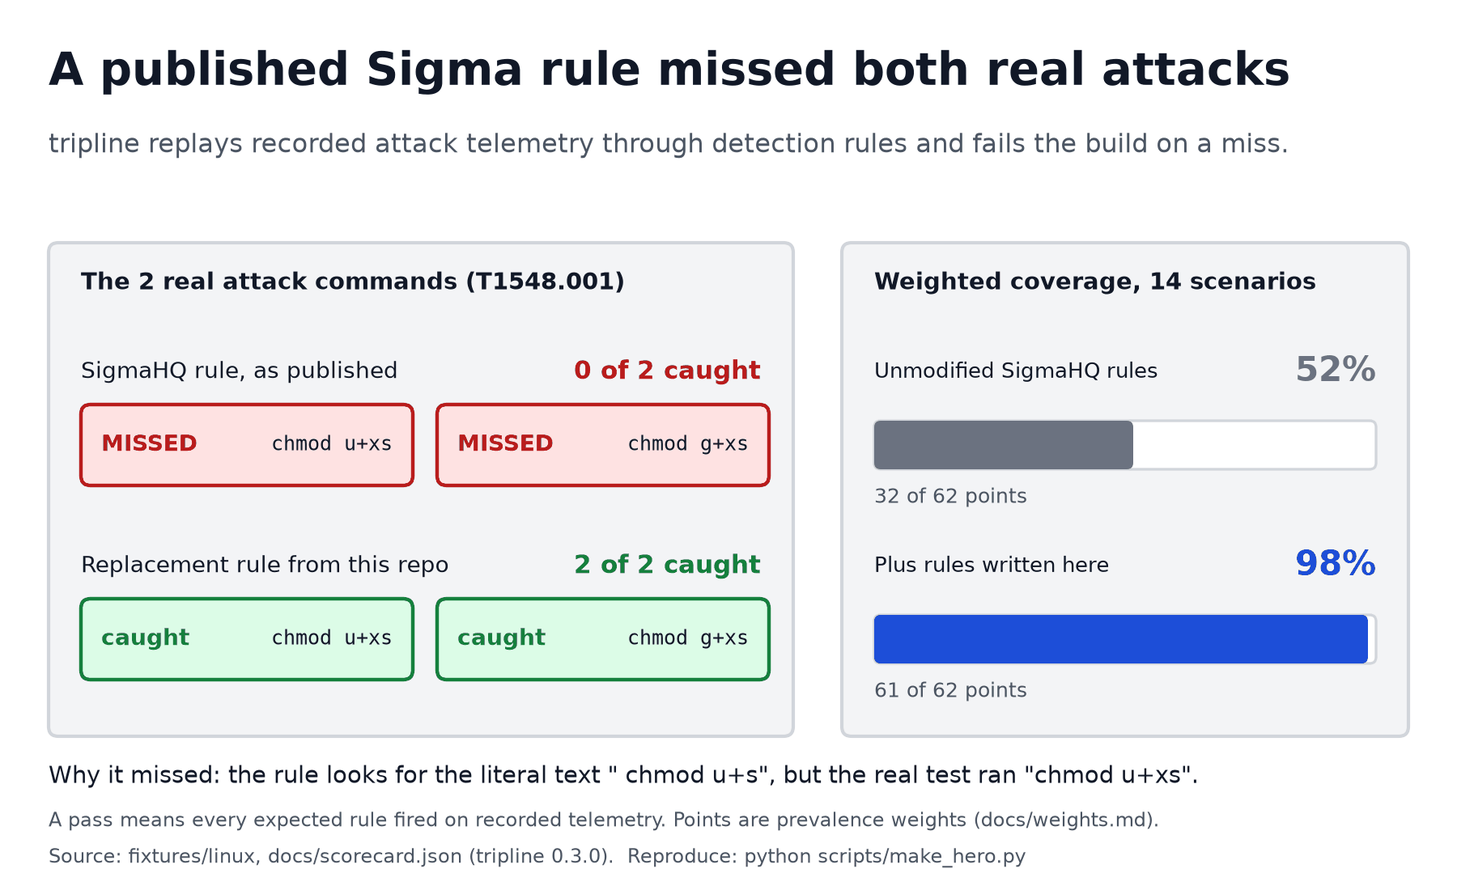
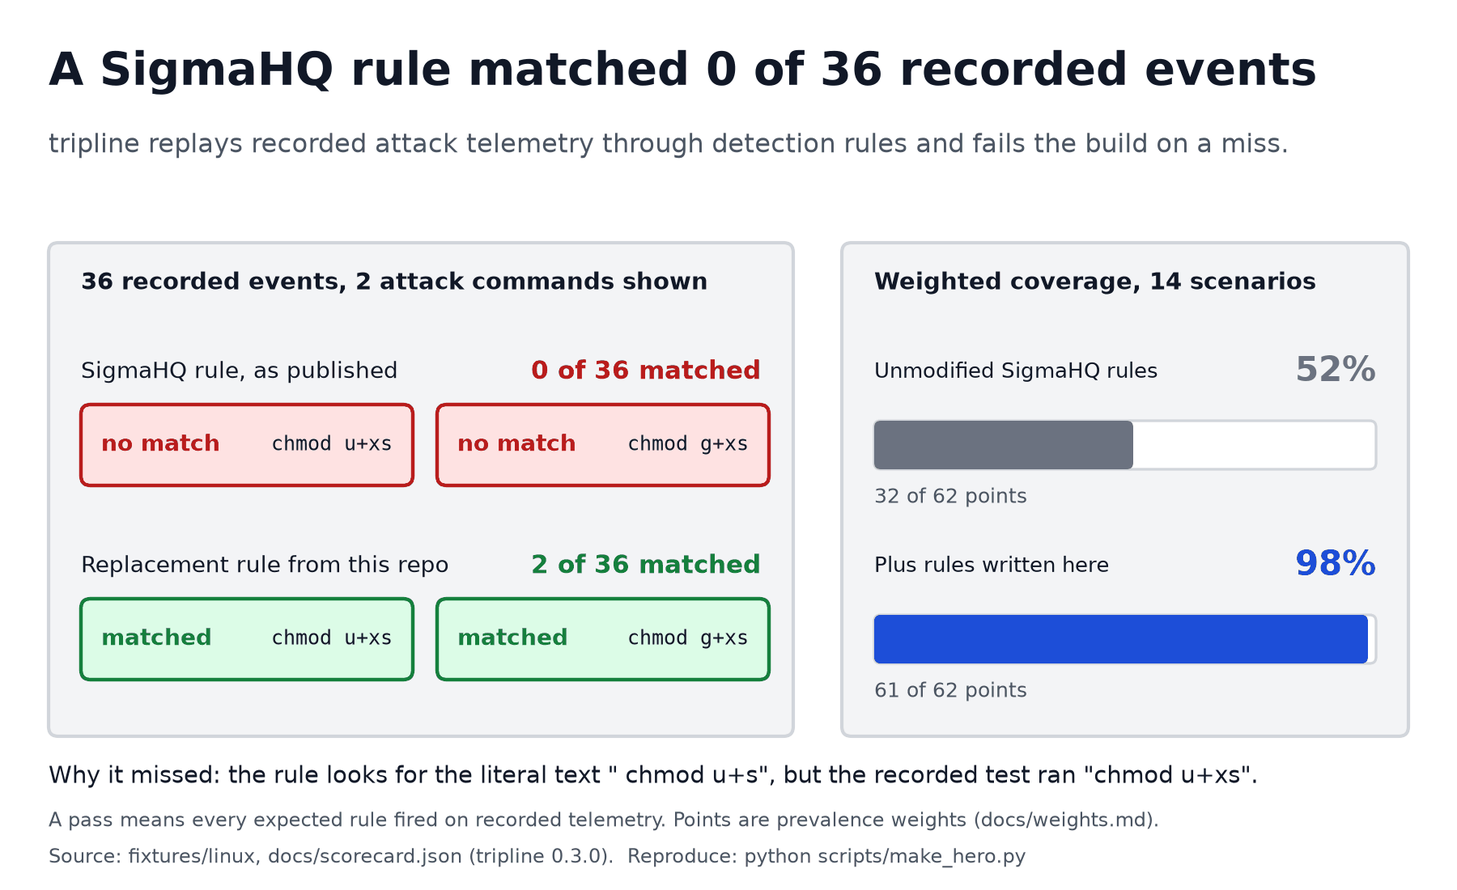
Rewrite README intro and setuid case study; verify against current SigmaHQ
Check the vendored Setuid and Setgid rule against SigmaHQ master and release r2026-07-01 (detection unchanged since 2022). Report the result as 0 of 36 recorded execve events instead of 0 of 2, say what the rule could ever match, and keep generated variants apart from recorded telemetry. Note that the 0/108 comparison column in the sweep is not a fair comparison. Add an evidence chart script.

diff --git a/scripts/make_evidence.py b/scripts/make_evidence.py
@@ -1,0 +1,88 @@
+"""Render docs/img/evidence.png: recorded telemetry kept apart from generated variants.
+
+Numbers are computed here from the committed fixture and rules, not typed in.
+Run from the repo root:  python scripts/make_evidence.py   (needs matplotlib and the dev install)
+"""
+
+from __future__ import annotations
+
+from pathlib import Path
+
+import matplotlib
+
+matplotlib.use("Agg")
+import matplotlib.pyplot as plt
+
+from tripline.engine.rules import evaluate, load_rules
+from tripline.replay import load_fixture_events
+from tripline.robustness import run_sweep
+from tripline.scenarios import load_scenarios
+
+ROOT = Path(__file__).resolve().parent.parent
+STOCK = "c21c4eaa-ba2e-419a-92b2-8371703cbe21"
+MINE = "7f3c2b1a-6d4e-4a9b-9c8d-1e2f3a4b5c6d"
+SID = "t1548-001-setuid-setgid"
+
+
+def main() -> None:
+    scenarios = load_scenarios(ROOT / "scenarios")
+    rules = load_rules(ROOT / "rules" / "sigma")
+    scen = {s.id: s for s in scenarios}[SID]
+    events = load_fixture_events(scen, ROOT)
+    execve = [e for e in events if e.get("type") == "EXECVE"]
+    attack = [e for e in execve if e.get("exe") == "/usr/bin/chmod"]
+    rec = {}
+    for name, rid in (("replacement rule", MINE),):
+        rule = rules.by_id(rid)
+        rec[name] = sum(1 for e in attack if evaluate(rule, e) is True)
+    sweep = run_sweep([scen], rules, ROOT)
+    sc = sweep.scenarios[0]
+    gen_mine = next(r for r in sc.rules if r.rule_id == MINE)
+
+    fig, axes = plt.subplots(1, 2, figsize=(10, 4.2), gridspec_kw={"width_ratios": [2, 3]})
+    ax = axes[0]
+    ax.bar(list(rec), list(rec.values()), color=["#15803d"], width=0.4)
+    ax.set_ylim(0, len(attack) * 1.2)
+    ax.set_yticks(range(len(attack) + 1))
+    ax.axhline(len(attack), color="#9ca3af", lw=0.8, ls="--")
+    ax.set_ylabel("chmod attack events matched")
+    ax.set_title(
+        f"Recorded: {len(attack)} chmod events\n(of {len(execve)} execve, {len(events)} total)"
+    )
+    for i, v in enumerate(rec.values()):
+        ax.text(i, v + 0.05, f"{v} of {len(attack)}", ha="center", fontweight="bold")
+    ax = axes[1]
+    ax.bar(["replacement rule"], [gen_mine.cmdline_caught], color="#1d4ed8", width=0.4)
+    ax.axhline(gen_mine.cmdline_variants, color="#9ca3af", lw=0.8, ls="--")
+    ax.set_ylim(0, gen_mine.cmdline_variants * 1.15)
+    ax.set_ylabel("variants caught")
+    ax.set_title(
+        f"Generated: {gen_mine.cmdline_variants} spellings of the same command\n(not recorded)"
+    )
+    ax.text(
+        0,
+        gen_mine.cmdline_caught + 1.5,
+        f"{gen_mine.cmdline_caught} of {gen_mine.cmdline_variants}",
+        ha="center",
+        fontweight="bold",
+    )
+    for a in axes:
+        a.spines[["top", "right"]].set_visible(False)
+    fig.text(
+        0.01,
+        0.01,
+        "Note: generated variants are bare chmod events without 'chown root', so the SigmaHQ rule "
+        "(which needs both in one command line) cannot match them; that is not a fair comparison.\n"
+        "Reproduce: python scripts/make_evidence.py",
+        fontsize=7.5,
+        color="#4b5563",
+        va="bottom",
+    )
+    fig.tight_layout(rect=(0, 0.08, 1, 1))
+    out = ROOT / "docs" / "img" / "evidence.png"
+    fig.savefig(out, dpi=170, facecolor="white")
+    print(f"wrote {out}", rec, gen_mine.cmdline_caught, gen_mine.cmdline_variants)
+
+
+if __name__ == "__main__":
+    main()

diff --git a/scripts/make_hero.py b/scripts/make_hero.py
@@ -43,6 +43,9 @@ def measure() -> dict:
     cmds = [normalize(e)["CommandLine"] for e in attacks]
     stock = [bool(evaluate(by_id[STOCK], e)) for e in attacks]
     mine = [bool(evaluate(by_id[MINE], e)) for e in attacks]
+    execve = [e for e in events if e.get("type") == "EXECVE"]
+    stock_n = sum(1 for e in execve if evaluate(by_id[STOCK], e) is True)
+    mine_n = sum(1 for e in execve if evaluate(by_id[MINE], e) is True)
     card = json.loads((ROOT / "docs" / "scorecard.json").read_text(encoding="utf-8"))
     total = sum(s["weight"] for s in card["scenarios"])
     passed = sum(s["weight"] for s in card["scenarios"] if s["status"] == "passed")
@@ -53,6 +56,8 @@ def measure() -> dict:
     )
     return dict(
         cmds=cmds,
+        n_exec=len(execve),
+        counts=(stock_n, mine_n),
         stock=stock,
         mine=mine,
         total=total,
@@ -80,7 +85,7 @@ def main() -> None:
     ax.text(
         6,
         101,
-        "A published Sigma rule missed both real attacks",
+        "A SigmaHQ rule matched 0 of 36 recorded events",
         fontsize=20,
         fontweight="bold",
         color=TEXT,
@@ -100,24 +105,24 @@ def main() -> None:
     ax.text(
         10,
         75,
-        "The 2 real attack commands (T1548.001)",
+        f"{m['n_exec']} recorded events, 2 attack commands shown",
         fontsize=10.5,
         color=TEXT,
         fontweight="bold",
         va="center",
     )
     rows = [
-        ("SigmaHQ rule, as published", m["stock"]),
-        ("Replacement rule from this repo", m["mine"]),
+        ("SigmaHQ rule, as published", m["stock"], m["counts"][0]),
+        ("Replacement rule from this repo", m["mine"], m["counts"][1]),
     ]
-    for i, (name, res) in enumerate(rows):
+    for i, (name, res, n_hit) in enumerate(rows):
         y = 64 - i * 24
         ax.text(10, y, name, fontsize=10, color=TEXT, va="center")
-        ok_all = all(res)
+        ok_all = n_hit > 0
         ax.text(
             94,
             y,
-            f"{sum(res)} of {len(res)} caught",
+            f"{n_hit} of {m['n_exec']} matched",
             fontsize=11,
             fontweight="bold",
             color=GOOD if ok_all else BAD,
@@ -130,7 +135,7 @@ def main() -> None:
             ax.text(
                 x + 2.5,
                 y - 9,
-                "caught" if ok else "MISSED",
+                "matched" if ok else "no match",
                 fontsize=10,
                 color=GOOD if ok else BAD,
                 fontweight="bold",
@@ -184,7 +189,7 @@ def main() -> None:
     ax.text(
         6,
         14,
-        'Why it missed: the rule looks for the literal text " chmod u+s", but the real test ran '
+        'Why it missed: the rule looks for the literal text " chmod u+s", but the recorded test ran '
         '"chmod u+xs".',
         fontsize=10.5,
         color=TEXT,

diff --git a/tripline/robustness.py b/tripline/robustness.py
@@ -674,7 +674,12 @@ def render_markdown(report: RobustnessReport) -> str:
             "|---|---|---|",
         ]
         for r in scenario.rules:
-            tag = "" if r.expected else " (comparison: not expected by the scenario)"
+            tag = (
+                ""
+                if r.expected
+                else " (comparison only; generated events carry no `chown root`, which this rule "
+                "needs in the same command line, so a 0 here is not a fair comparison)"
+            )
             alt = f"{r.alt_tool_caught} / {r.alt_tool_variants}" if r.alt_tool_variants else "-"
             lines.append(f"| {r.title}{tag} | {r.cmdline_caught} / {r.cmdline_variants} | {alt} |")
         lines += [

diff --git a/README.md b/README.md
@@ -5,19 +5,13 @@
 ![python](https://img.shields.io/badge/python-3.12-blue)
 [![weighted coverage](docs/coverage.svg)](docs/scorecard.md)
 
-**tripline automatically checks that security detection rules still catch the attacks they are written for, and fails the code review when one stops.**
+**tripline replays recorded attack telemetry through Sigma detection rules on every pull request and fails the build when a rule that should fire does not.**
 
-![Left: a published SigmaHQ rule flagged 0 of 2 recorded setuid attack commands while the replacement rule written in this repo flagged 2 of 2. Right: weighted coverage across 14 ATT&CK scenarios is 52% on unmodified SigmaHQ rules and 98% with the rules written in this repo.](docs/img/hero.png)
+![Left: a SigmaHQ rule matched 0 of 36 recorded setuid execve events, while the replacement rule in this repo matched the 2 chmod attack commands. Right: weighted coverage across 14 ATT&CK scenarios is 52% on unmodified SigmaHQ rules and 98% with the rules written in this repo.](docs/img/hero.png)
 
-*A stock SigmaHQ rule flagged 0 of 2 real setuid attacks I recorded on a GitHub runner. The replacement rule written here flags 2 of 2 ([finding F-001](docs/findings.md)).*
+Each ATT&CK technique in the repo has a scenario: the technique, the Sigma rules expected to fire, a fixture of recorded telemetry (auditd, Sysmon/Security/PowerShell, CloudTrail) and a weight. CI replays the fixture through the rules offline with a small Python evaluator and exits non-zero if an expected rule misses. It also reports prevalence-weighted coverage, false positives on a benign corpus and a sweep of generated command-line variants.
 
-**What it does, in plain terms.** Security teams write rules that raise an alert when an attacker does something specific, such as making a program run as root. A rule can look right and still never fire, and nobody finds out until a real attack happens. tripline keeps recordings of real attack activity in the repo and replays them through the rules on every pull request. If a rule that should fire does not, the build goes red and names the rule.
-
-## Technical overview
-
-tripline is a CI gate for Sigma detection rules. Each ATT&CK technique has recorded telemetry (auditd, Sysmon/Security/PowerShell, CloudTrail) committed in the repo. On every pull request tripline replays that telemetry through the rules and fails the build if a rule that should fire on the technique does not. It also reports prevalence-weighted coverage, false positives on a benign corpus and a first sweep of evasion variants.
-
-It has already found a real gap. The stock SigmaHQ *Setuid and Setgid* rule flagged 0 of the 2 attack events (the two `chmod` executions) among the 36 events I recorded from Atomic Red Team's own T1548.001 tests. A replacement rule flags 2 of 2 ([finding F-001](docs/findings.md)).
+The first thing it caught was in the SigmaHQ *Setuid and Setgid* rule. I recorded Atomic Red Team's T1548.001 setuid and setgid tests on a GitHub runner (36 `execve` events, two of them the `chmod u+xs` and `chmod g+xs` attack commands). The rule matched none of the 36, and a replacement rule written here matches both attack commands ([the case study](#case-study-setuid-and-setgid) has the details and what this does not show).
 
 | | |
 |---|---|
@@ -26,7 +20,7 @@ It has already found a real gap. The stock SigmaHQ *Setuid and Setgid* rule flag
 | Weighted coverage | 98% of weight points have a passing scenario (61 of 62). Only 52% (32 of 62, 8 scenarios) pass on unmodified SigmaHQ rules alone. The other 5 passing scenarios (29 points) need at least one rule I wrote. 45 of the 62 points follow a published ranking and 17 are hand-assigned ([weights](docs/weights.md)). |
 | False positives | 2 matches from 1 of 6 evaluated rules on a 675-event benign Linux corpus. The other 20 of 26 rules were not evaluated ([benign corpus](docs/benign-corpus.md)). |
 | Evasion sweep | 200 of 251 command-line variants of the three Linux attacks are caught by an expected rule ([robustness](docs/robustness.md)). |
-| Gaps found | SigmaHQ *Setuid and Setgid* missed both attack events ([F-001](docs/findings.md)). Three Windows rules missed their Atomic tests ([F-003](docs/findings.md)). |
+| Gaps found | SigmaHQ *Setuid and Setgid* matched none of the 36 recorded events ([F-001](docs/findings.md)). Three Windows rules missed their Atomic tests ([F-003](docs/findings.md)). |
 | Code | 212 tests, 91% coverage, ruff and mypy (strict) clean, ATT&CK v20 ([version notes](docs/attack-version.md)) |
 
 Try it (Python 3.12+, no SIEM, offline, about a second):
@@ -51,7 +45,7 @@ tripline treats a detection like code under test. A scenario (`scenarios/*.yaml`
 
 ## Current results
 
-Everything below was produced by the commands in [Quick start](#quick-start) on 2026-11-13.
+Everything below was produced by the commands in [Quick start](#quick-start) and re-run on 2026-11-14.
 
 | Plane | Telemetry | Scenarios passing | Where the fixtures come from |
 |---|---|---|---|
@@ -66,18 +60,32 @@ Everything below was produced by the commands in [Quick start](#quick-start) on 
 - Test suite: 212 tests, 91% coverage. `ruff format`, `ruff check`, `mypy` (strict), `sigma check rules/` (0 issues), `actionlint` and `zizmor` are clean.
 - The scorecard also exports an ATT&CK Navigator layer (layer format 4.5, ATT&CK v20): [`docs/navigator_layer.json`](docs/navigator_layer.json). The other outputs are [`docs/scorecard.md`](docs/scorecard.md), [`docs/scorecard.json`](docs/scorecard.json), the HTML report [`docs/report.html`](docs/report.html) and the badge [`docs/coverage.svg`](docs/coverage.svg).
 
-### The setuid gap
+## Case study: setuid and setgid
 
-On the first Linux recording, the vendored SigmaHQ rule `c21c4eaa` (*Setuid and Setgid*) flagged 0 of the 2 attack events. All 36 recorded events apply to the rule. Two are the attack itself (the two `chmod` executions), 4 are `sudo`/`dash` wrapper lines that mention `chmod`, and 30 are unrelated. The rule looks for the literal text ` chmod u+s`, and the Atomic test ran `chmod u+xs`. `chmod 4755`, `chmod ug+s` or `chmod a+s` would be missed the same way.
+The case study is on one rule, one recording and two commands. Details and the upstream check are in [`docs/findings.md`](docs/findings.md) (F-001).
 
-The emulation run that recorded it ([run 41838714456](https://github.com/samiali38183/tripline/actions/runs/41838714456)) failed its own gate for exactly this reason. The repo now includes a replacement rule, `tripline_lnx_chmod_setuid_setgid_any_form.yml`. It anchors on the `chmod` binary and matches symbolic forms and octal modes that set the setuid or setgid bit, and it catches 2 of 2 (the two `chmod` executions). The 36 below is the whole recorded event count. The denominator that matters is the 2 attack events.
+**Existing rule.** SigmaHQ *Setuid and Setgid* (`c21c4eaa`, `status: test`, level low) is vendored unmodified. It fires when one command line contains `chown root` and either ` chmod u+s` or ` chmod g+s`. Its detection logic is unchanged since October 2022 and is identical in SigmaHQ release r2026-07-01, checked 2026-11-14. The Atomic Red Team test it references, at the commit it cites, ran `chmod u+s` and `chmod g+s`. The current atomics run `chmod u+xs` and `chmod g+xs`.
+
+**Recorded scenario.** On a GitHub-hosted `ubuntu-latest` runner with auditd, I ran Atomic tests T1548.001-3 and -5 ([run 41838714456](https://github.com/samiali38183/tripline/actions/runs/41838714456)). The fixture holds 84 audit events, 36 of them `execve`. Two `execve` events are the attack commands (`chmod u+xs /tmp/evilBinary`, `chmod g+xs /tmp/evilBinary`). Four more are `sudo` and `sh -c` wrapper lines that mention `chmod`, and 30 are unrelated.
+
+**Measured blind spot.** The SigmaHQ rule matched 0 of the 36 `execve` events. Only the two `sh -c` wrapper lines contain both `chown root` and `chmod`, so they are the only events it could ever match, and it misses them because `u+xs` does not contain ` chmod u+s`. Adding ` chmod u+xs` and ` chmod g+xs` to its list makes it match those two lines (checked locally, not submitted anywhere). That run failed its own gate, which is how the gap was found.
+
+**Replacement.** `tripline_lnx_chmod_setuid_setgid_any_form.yml` keys on the `chmod` binary instead of a combined command line. It matches symbolic modes that set the setuid or setgid bit and octal modes from `2xxx` to `7xxx`, and matches both attack commands. The scenario expects this rule, and the SigmaHQ rule stays in the rule set so an upstream fix shows up in `tripline replay`. The replay prints the result as `2/36 applicable events`.
 
 ```
 Setuid and Setgid                                  applicable 36  matched 0
 Setuid or Setgid Bit Set via Chmod (Any Mode Form) applicable 36  matched 2
 ```
 
-A second finding (F-002) was a bug in my own auditd collector: SYSCALL `a0..a3` register values were being hex-decoded into command lines. It is fixed and has a regression test. Full write-ups are in [`docs/findings.md`](docs/findings.md).
+![Left: the replacement rule matches both recorded chmod attack events. Right: it matches 106 of 108 generated spellings of the command, which are not recorded telemetry.](docs/img/evidence.png)
+
+**Regression tests.** `tests/test_linux_collect.py` checks the replacement against the recorded fixture and against hand-built events: octal modes with sticky bits and a leading zero, comma-separated symbolic clauses, full-path and busybox invocations, filter evasion with a `/usr/share/doc/` argument, and benign modes that must not match. These are synthetic events, not recordings. The replay gate itself is tested in `tests/test_cli.py`.
+
+**False-positive and variant evaluation.** Over the 675-event benign Linux corpus (one 33-second runner recording) the replacement matched 0 of 488 applicable events, and so did the SigmaHQ rule. That workload deliberately contains no setuid `chmod`, so this checks for stray matches and says nothing about legitimate setuid use such as package installs. Separately, `tripline robustness` generates 108 spellings of the setuid command (modes, flags, paths, argument order). The replacement catches 106. The two misses are a renamed copy of `chmod` and a target under `/usr/share/doc/`, which the rule excludes on purpose. Four alternative tools (`install -m 4755`, `python3 os.chmod`, `perl chmod`) are missed. These variants are generated, not recorded. They are bare `chmod` events with no `chown root`, so the SigmaHQ rule cannot match them and its 0 of 108 is not a comparison.
+
+**Limits.** This shows one rule missing two spellings on one recording. It does not show that SigmaHQ's setuid coverage is weak: other SigmaHQ rules (for example *Suspicious Activity in Shell Commands* and the auditd *File or Folder Permissions Change* rule) cover some chmod activity and were not part of this comparison. The replacement is `experimental`, covers `chmod` only, reads the command line and not the resolved path, and has run against one short benign recording on one runner.
+
+A second finding (F-002) was a bug in my own auditd collector, fixed with a regression test.
 
 ## How it works
 

diff --git a/docs/findings.md b/docs/findings.md
@@ -3,33 +3,46 @@
 Detection gaps surfaced by replaying real emulation telemetry. Each entry names the telemetry,
 the rule that should have fired, why it did not, and what changed.
 
-## F-001 - SigmaHQ "Setuid and Setgid" misses `chmod u+xs`
+## F-001 - SigmaHQ "Setuid and Setgid" does not match `chmod u+xs` / `g+xs`
 
 * Scenario: `t1548-001-setuid-setgid` (T1548.001, Linux)
-* Telemetry: auditd EXECVE from `ubuntu-latest`, Atomic Red Team T1548.001-3 and -5,
-  recorded in [emulate-linux run 41838714456](https://github.com/samiali38183/tripline/actions/runs/41838714456)
-  and committed under `fixtures/linux/t1548-001-setuid-setgid/`.
-* Observed command lines:
+* Existing rule: `c21c4eaa-ba2e-419a-92b2-8371703cbe21` *Setuid and Setgid* (SigmaHQ, vendored
+  unmodified, `status: test`, level low). It needs `CommandLine|contains: 'chown root'` and one of
+  ` chmod u+s` / ` chmod g+s` in the same command line. Its detection logic has not changed since
+  2022-10-05. The vendored copy is identical to SigmaHQ `master` and to release r2026-07-01 (checked
+  2026-11-14; later upstream commits are tag and metadata updates).
+* Recorded telemetry: auditd from `ubuntu-latest`, Atomic Red Team T1548.001-3 and -5, in
+  [emulate-linux run 41838714456](https://github.com/samiali38183/tripline/actions/runs/41838714456),
+  committed under `fixtures/linux/t1548-001-setuid-setgid/`. 84 audit events, 36 of them `execve`:
+  2 attack commands, 4 `sudo`/`sh -c` wrapper lines that mention `chmod`, 30 unrelated. Commands
+  that mention `chmod`:
 
   ```
   sh -c sudo touch /tmp/evilBinary; sudo chown root /tmp/evilBinary; sudo chmod u+xs /tmp/evilBinary
-  chmod u+xs /tmp/evilBinary
-  chmod g+xs /tmp/evilBinary
+  sudo chmod u+xs /tmp/evilBinary
+  chmod u+xs /tmp/evilBinary          <- attack event
+  (and the same three lines with g+xs)
   ```
 
-* Rule: `c21c4eaa-ba2e-419a-92b2-8371703cbe21` *Setuid and Setgid* (SigmaHQ, vendored unmodified)
-  requires `CommandLine|contains: ' chmod u+s'` or `' chmod g+s'` and `'chown root'`.
-* Why it missed: the atomic uses the combined mode `u+xs` / `g+xs`. A `contains` match on the
-  literal ` chmod u+s` cannot see it. Any attacker typing `chmod 4755`, `chmod ug+s` or
-  `chmod a+s` is equally invisible to the rule. Result on the recorded fixture: 0 of the 2 attack events.
-  All 36 recorded events apply to the rule: 2 are the attack (the two `chmod` executions), 4 are
-  `sudo`/`dash` wrapper lines that mention `chmod`, 30 are unrelated.
-* Fix: `rules/sigma/linux/tripline_lnx_chmod_setuid_setgid_any_form.yml`
+* Why the Atomic and the rule disagree: the Atomic test the rule cites (at the commit in its
+  `references`) ran `chmod u+s` / `chmod g+s`. The current Atomics run `u+xs` / `g+xs`. A `contains`
+  match on the literal ` chmod u+s` cannot see the combined mode.
+* Measured: the SigmaHQ rule matched 0 of the 36 `execve` events. Because it needs `chown root` in the
+  same line as `chmod`, the only events it could match are the two `sh -c` wrapper lines, and it
+  misses those. Adding ` chmod u+xs` and ` chmod g+xs` to its list makes it match exactly those two
+  lines (verified locally with tripline; nothing was submitted upstream). The same rule does match a
+  synthetic `sh -c "chown root f; chmod u+s f"`, so the miss is the `xs` spelling plus the
+  single-command-line design, not a broken rule. Bare `chmod u+s f` or `chmod 4755 f` without
+  `chown root` in the same line also does not match it (synthetic events, not recorded).
+* Replacement: `rules/sigma/linux/tripline_lnx_chmod_setuid_setgid_any_form.yml`
   (`7f3c2b1a-6d4e-4a9b-9c8d-1e2f3a4b5c6d`) matches `Image|endswith: /chmod` with a regex over the
-  symbolic form `[ugoa]*[+=][rwxXt]*s` or an octal mode. On the same fixture: 2 of 2 attack events
-  (the two `chmod` executions; the replay prints this as 2/36 applicable events, 36 being all
-  recorded events). The wrapper lines are not counted because the
-  `Image` must be `chmod` itself.
+  symbolic form `[ugoa]*[+=][rwxXt]*s` or an octal mode. On the recorded fixture it matches both
+  `chmod` execution events (the replay prints 2/36 applicable events, 36 being all recorded `execve`
+  events). The wrapper lines are not counted because the `Image` must be `chmod` itself.
+* Scope: this is one recording of two commands. It does not show that SigmaHQ's setuid coverage is
+  poor. Other SigmaHQ rules, such as *Suspicious Activity in Shell Commands* (`2aa1440c`, keyword
+  `*/chmod u+s *`) and the auditd *File or Folder Permissions Change* (`74c01ace`, any chmod), cover
+  some chmod activity and were not compared.
 * Revision in 0.2.1. The first version of the rule had its own gaps, found
   by reading the regexes against hand-built command lines (synthetic events in
   `tests/test_linux_collect.py`, not recorded telemetry; the committed fixtures and the 2 of 2
@@ -51,7 +64,7 @@ the rule that should have fired, why it did not, and what changed.
     `..`. Residual risk: a symlink inside `/usr/share/doc` that points elsewhere is still
     excluded; the rule sees the command line, not the resolved path.
 * Status: scenario now expects the tripline rule; the SigmaHQ rule stays in the rule set so a
-  future upstream fix is picked up by `tripline replay` automatically. Upstream issue: to be filed.
+  future upstream fix is picked up by `tripline replay` automatically. Upstream: no existing SigmaHQ issue or PR about this rule was found (2026-11-14). A draft issue is prepared but has not been filed.
 
 ## F-002 - auditd SYSCALL registers leak into command lines (collector bug)
 

diff --git a/docs/related-work.md b/docs/related-work.md
@@ -20,8 +20,8 @@ A small, self-contained gate for a consumer repo: scenarios (technique, tactic, 
 fixtures) live next to the rules, the evaluator is plain Python over NDJSON so it runs offline on
 a stock runner in seconds, and the output is a scorecard with prevalence-weighted coverage, a
 Navigator layer, an HTML report and a JUnit file. It also publishes findings from using it, such
-as the SigmaHQ *Setuid and Setgid* rule flagging 0 of the 2 attack events among 36 recorded from Atomic Red Team's
-own T1548.001 tests ([F-001](findings.md)). Since 0.3.0 it also replays all rules against a
+as the SigmaHQ *Setuid and Setgid* rule matching none of the 36 `execve` events recorded from Atomic Red Team's
+own T1548.001 tests (which use `chmod u+xs`) ([F-001](findings.md)). Since 0.3.0 it also replays all rules against a
 benign corpus and sweeps command-line variants.
 
 ## What it does not do

diff --git a/docs/robustness.md b/docs/robustness.md
@@ -113,7 +113,7 @@ Variants no expected rule catches (32):
 | Rule | Command-line variants caught | Alternative-tool variants caught |
 |---|---|---|
 | Setuid or Setgid Bit Set via Chmod (Any Mode Form) | 106 / 108 | 0 / 4 |
-| Setuid and Setgid (comparison: not expected by the scenario) | 0 / 108 | 0 / 4 |
+| Setuid and Setgid (comparison only; generated events carry no `chown root`, which this rule needs in the same command line, so a 0 here is not a fair comparison) | 0 / 108 | 0 / 4 |
 
 Any expected rule: 106 of 108 command-line variants, 0 of 4 alternative-tool variants.
 
